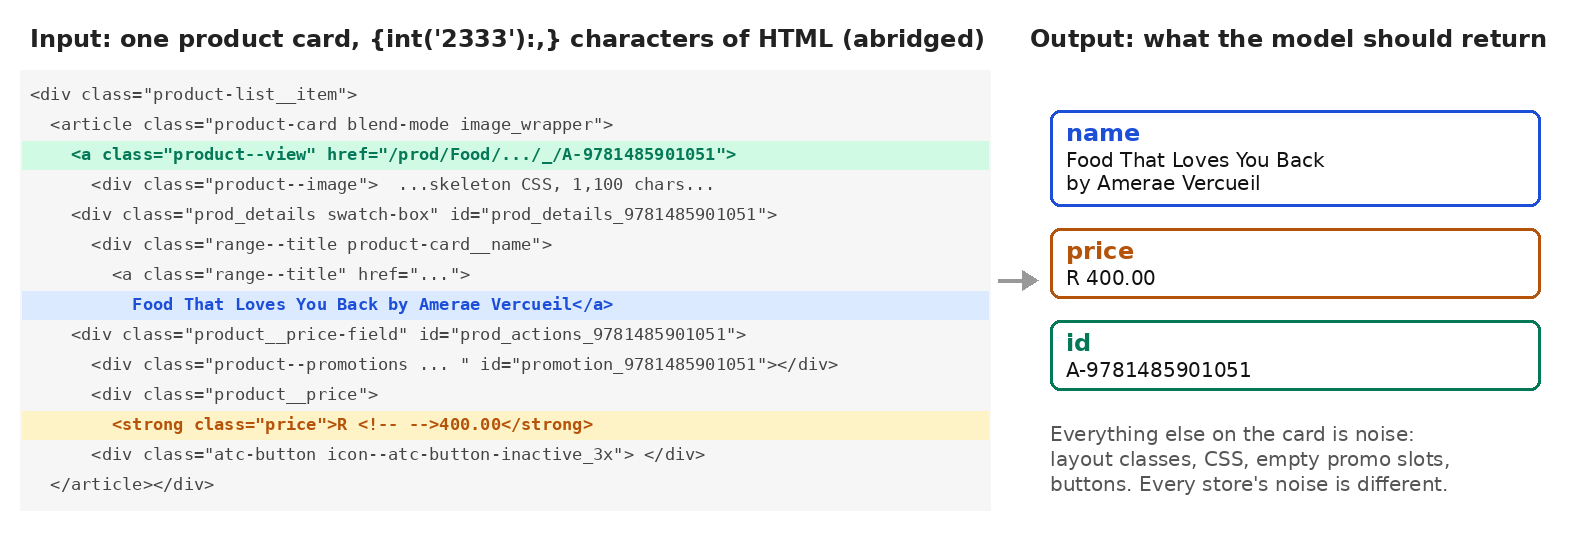
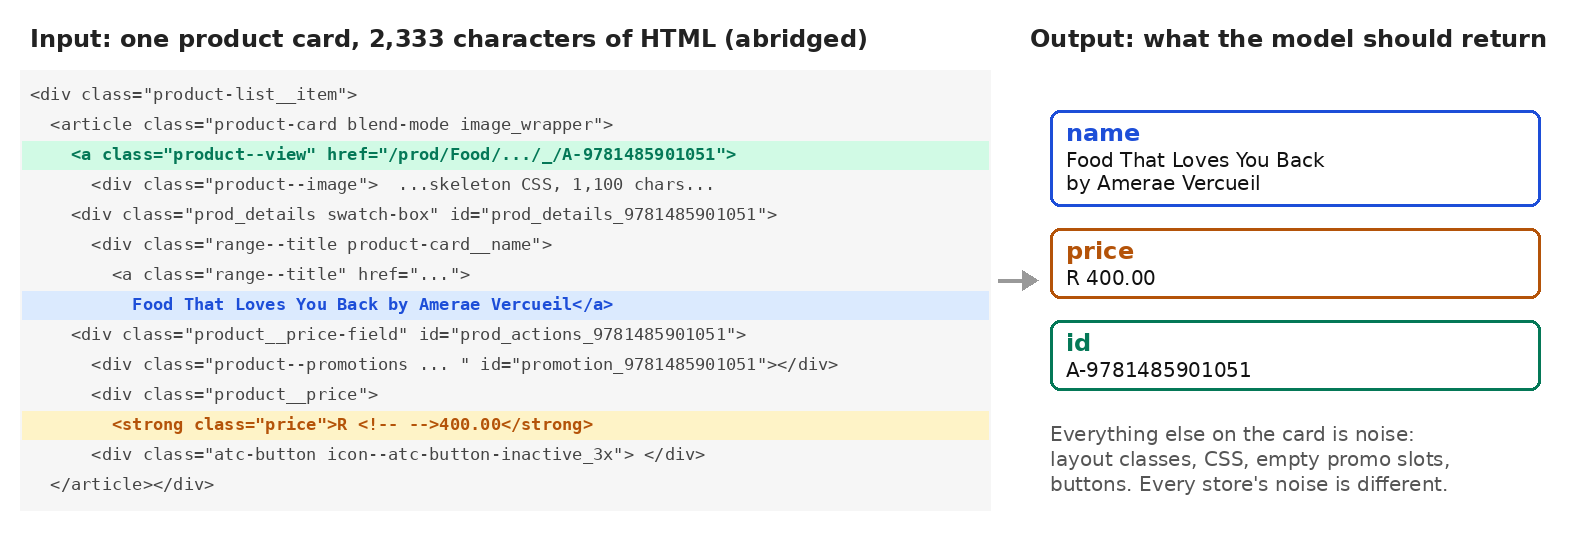
Add share buttons and social preview images to posts; fix retail figure label

Changed region(s): [[0.2185, 0.0296, 0.6242, 0.0889]]

diff --git a/_includes/share.html b/_includes/share.html
@@ -1,0 +1,14 @@
+{% assign share_url = page.url | absolute_url | url_encode %}
+{% assign share_title = page.title | url_encode %}
+<nav class="share{% if include.compact %} share--compact{% endif %}" aria-label="Share this post">
+  {% unless include.compact %}<span class="share-label">Share</span>{% endunless %}
+  <a class="share-btn" href="https://x.com/intent/post?text={{ share_title }}&amp;url={{ share_url }}" target="_blank" rel="noopener" title="Share on X">X</a>
+  <a class="share-btn" href="https://www.linkedin.com/sharing/share-offsite/?url={{ share_url }}" target="_blank" rel="noopener" title="Share on LinkedIn">LinkedIn</a>
+  <a class="share-btn" href="https://wa.me/?text={{ share_title }}%20{{ share_url }}" target="_blank" rel="noopener" title="Share on WhatsApp">WhatsApp</a>
+  <a class="share-btn" href="https://www.reddit.com/submit?url={{ share_url }}&amp;title={{ share_title }}" target="_blank" rel="noopener" title="Share on Reddit">Reddit</a>
+  <a class="share-btn" href="https://news.ycombinator.com/submitlink?u={{ share_url }}&amp;t={{ share_title }}" target="_blank" rel="noopener" title="Submit to Hacker News">HN</a>
+  <a class="share-btn" href="https://www.facebook.com/sharer/sharer.php?u={{ share_url }}" target="_blank" rel="noopener" title="Share on Facebook">Facebook</a>
+  <a class="share-btn" href="mailto:?subject={{ share_title }}&amp;body={{ share_url }}" title="Share by email">Email</a>
+  <button type="button" class="share-btn copy-link" data-url="{{ page.url | absolute_url }}" title="Copy link">Copy link</button>
+  <button type="button" class="share-btn native-share" hidden data-url="{{ page.url | absolute_url }}" data-title="{{ page.title | escape }}">Share…</button>
+</nav>

diff --git a/assets/css/site.css b/assets/css/site.css
@@ -203,3 +203,15 @@ pre.mermaid { background: none; border: 0; text-align: center; }
 .feedback { margin-top: 4em; padding: 16px 20px; border: 1px solid var(--line); border-radius: 12px; color: var(--muted); font-size: 15px; }
 .feedback p { margin: 0; }
 .feedback a { color: var(--text); }
+
+/* ---------- share ---------- */
+.share { display: flex; flex-wrap: wrap; align-items: center; gap: 8px; margin: 3em 0 0; }
+.share--compact { margin: -2.2em 0 2.6em; }
+.share-label { font: 600 0.78rem/1 var(--sans); letter-spacing: 0.14em; text-transform: uppercase; color: var(--accent); margin-right: 6px; }
+.share-btn {
+  font: 500 13px/1 var(--sans); color: var(--muted); text-decoration: none;
+  background: var(--panel); border: 1px solid var(--line); border-radius: 99px;
+  padding: 7px 12px; cursor: pointer;
+}
+.share-btn:hover { color: var(--text); border-color: var(--accent); }
+.share--compact .share-btn { padding: 5px 10px; font-size: 12px; }

diff --git a/assets/js/site.js b/assets/js/site.js
@@ -29,3 +29,21 @@ document.querySelectorAll(".copy-btn").forEach(function (btn) {
     });
   });
 });
+
+// share: copy link + native share sheet where the browser supports it
+document.querySelectorAll(".copy-link").forEach(function (btn) {
+  btn.addEventListener("click", function () {
+    navigator.clipboard.writeText(btn.dataset.url).then(function () {
+      var old = btn.textContent; btn.textContent = "Copied";
+      setTimeout(function () { btn.textContent = old; }, 1500);
+    });
+  });
+});
+if (navigator.share) {
+  document.querySelectorAll(".native-share").forEach(function (btn) {
+    btn.hidden = false;
+    btn.addEventListener("click", function () {
+      navigator.share({ title: btn.dataset.title, url: btn.dataset.url }).catch(function () {});
+    });
+  });
+}

diff --git a/_layouts/post.html b/_layouts/post.html
@@ -9,6 +9,7 @@ layout: default
     · {{ words | divided_by: 220 | plus: 1 }} min read
     {% if page.series %}· <a href="{{ page.series_url | relative_url }}">{{ page.series }}</a>{% endif %}
   </p>
+  {% include share.html compact=true %}
   {% if page.corrections %}
   <aside class="corrections" aria-label="Corrections">
     <strong>Corrections</strong>
@@ -46,6 +47,8 @@ layout: default
   url          = {{ lb }}{{ abs_url }}{{ rb }},
   note         = {{ lb }}Blog post{{ rb }}
 {{ rb }}{% endcapture %}
+  {% include share.html %}
+
   {% assign issue_title = "Correction: " | append: page.title | url_encode %}
   {% capture issue_body %}Page: {{ page.url | absolute_url }}
 

diff --git a/scripts/import_agent_rl.py b/scripts/import_agent_rl.py
@@ -18,11 +18,11 @@ ASSETS = "/assets/agent-rl/"
 DATE = "2026-09-04"
 
 POSTS = {
-    "part-1-data.md":    dict(part=1, slug="part-1-data",
+    "part-1-data.md":    dict(part=1, slug="part-1-data", image="p1_pipeline.png",
                               description="Chunking, synthetic questions, verification, and the failure→data map that decided everything."),
-    "part-2-rl.md":      dict(part=2, slug="part-2-rl",
+    "part-2-rl.md":      dict(part=2, slug="part-2-rl", image="p_agent_tools.png",
                               description="Three tools, tokens in/tokens out, the reward, and how my GRPO differs from the textbook version."),
-    "part-3-results.md": dict(part=3, slug="part-3-results",
+    "part-3-results.md": dict(part=3, slug="part-3-results", image="v2_comparison.png",
                               description="Two runs, the slice tables, and an insurance-trained agent pointed at Rust and JavaScript books."),
 }
 PAGES = {
@@ -101,6 +101,7 @@ def main():
             f"series_url: {SERIES_URL}",
             f"part: {meta['part']}",
             f"description: {yaml_str(meta['description'])}",
+            f"image: {ASSETS}{meta['image']}",
             "tags: [rl, grpo, retrieval, agents]",
             "math: true",
             f"mermaid: {'true' if '```mermaid' in body else 'false'}",

diff --git a/_posts/2026-07-30-kb-search-agent-art.md b/_posts/2026-07-30-kb-search-agent-art.md
@@ -5,6 +5,7 @@ permalink: /blog/kb-search-agent-art/
 description: "Insurance questions are answered by exclusions and conditions buried in the terms, not by the general cover wording. I trained Qwen3-14B with OpenPipe ART to search for them. It reached 0.769 on unseen questions, and RL wasn't what got it there."
 tags: [rl, grpo, agents, retrieval, openpipe-art]
 mermaid: true
+image: /assets/art/v5_metrics.png
 ---
 
 A customer types: *"I am trying not to panic. Does the vehicle warranty cover

diff --git a/_posts/2022-08-28-ocr-synthetic-finetune.md b/_posts/2022-08-28-ocr-synthetic-finetune.md
@@ -4,6 +4,7 @@ date: 2022-08-28
 permalink: /blog/ocr-synthetic-finetune/
 description: "keras-ocr's recogniser can't output a full stop, so it can't read a price. Adding punctuation meant retraining its output layer, and the labelled data for that came from a text-image generator."
 tags: [ocr, keras, synthetic-data]
+image: /assets/ocr/alphabet_problem.png
 ---
 
 Look at a product page on a South African retail site and most of the text

diff --git a/_posts/2023-09-10-retail-html-extraction.md b/_posts/2023-09-10-retail-html-extraction.md
@@ -5,6 +5,7 @@ permalink: /blog/retail-html-extraction/
 description: "Scrapers for South African retailers, then three attempts at a model that pulls names and prices out of raw HTML, and what a later review of the code turned up."
 tags: [scraping, nlp, lora, flan-t5, spacy]
 mermaid: true
+image: /assets/retail/card_to_fields.png
 ---
 
 Price-comparison sites, stock trackers and shopping assistants all need the

diff --git a/_posts/2026-09-04-part-2-rl.md b/_posts/2026-09-04-part-2-rl.md
@@ -6,6 +6,7 @@ series: "Training a document-search agent with GRPO"
 series_url: /blog/agent-rl/
 part: 2
 description: "Three tools, tokens in/tokens out, the reward, and how my GRPO differs from the textbook version."
+image: /assets/agent-rl/p_agent_tools.png
 tags: [rl, grpo, retrieval, agents]
 math: true
 mermaid: true

diff --git a/_posts/2026-09-04-part-3-results.md b/_posts/2026-09-04-part-3-results.md
@@ -6,6 +6,7 @@ series: "Training a document-search agent with GRPO"
 series_url: /blog/agent-rl/
 part: 3
 description: "Two runs, the slice tables, and an insurance-trained agent pointed at Rust and JavaScript books."
+image: /assets/agent-rl/v2_comparison.png
 tags: [rl, grpo, retrieval, agents]
 math: true
 mermaid: false

diff --git a/_posts/2026-09-04-part-1-data.md b/_posts/2026-09-04-part-1-data.md
@@ -6,6 +6,7 @@ series: "Training a document-search agent with GRPO"
 series_url: /blog/agent-rl/
 part: 1
 description: "Chunking, synthetic questions, verification, and the failure→data map that decided everything."
+image: /assets/agent-rl/p1_pipeline.png
 tags: [rl, grpo, retrieval, agents]
 math: true
 mermaid: true
